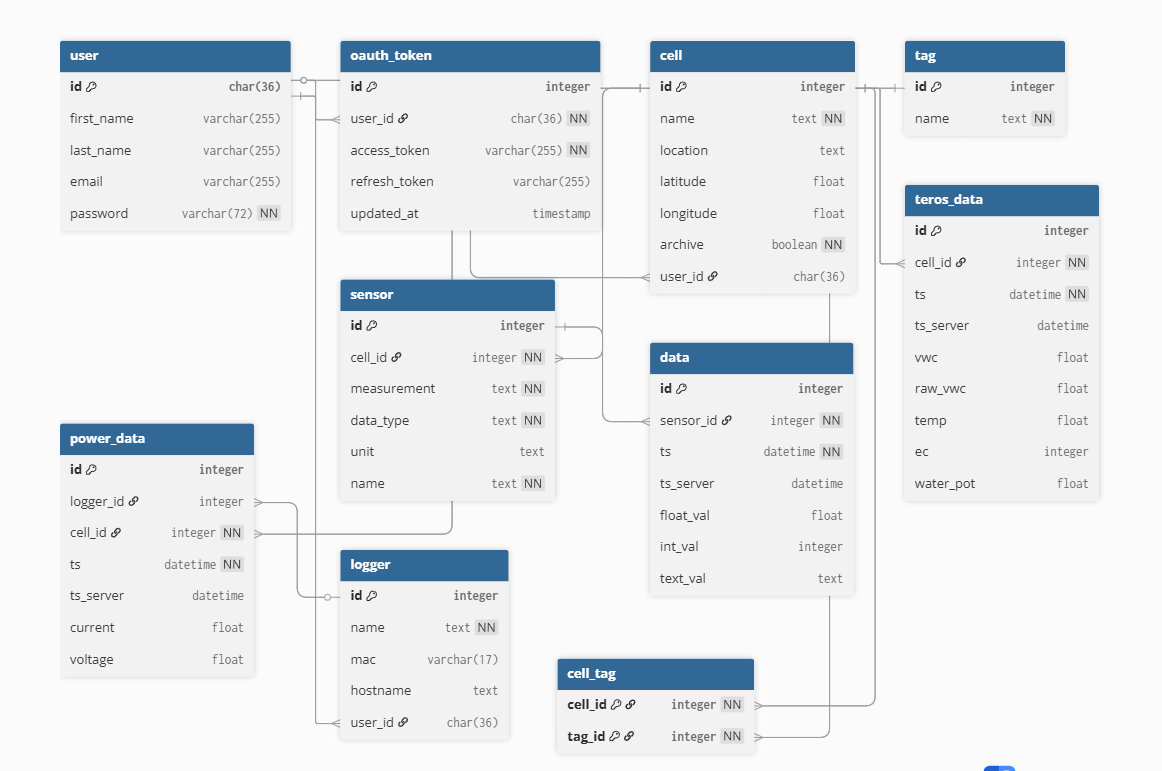
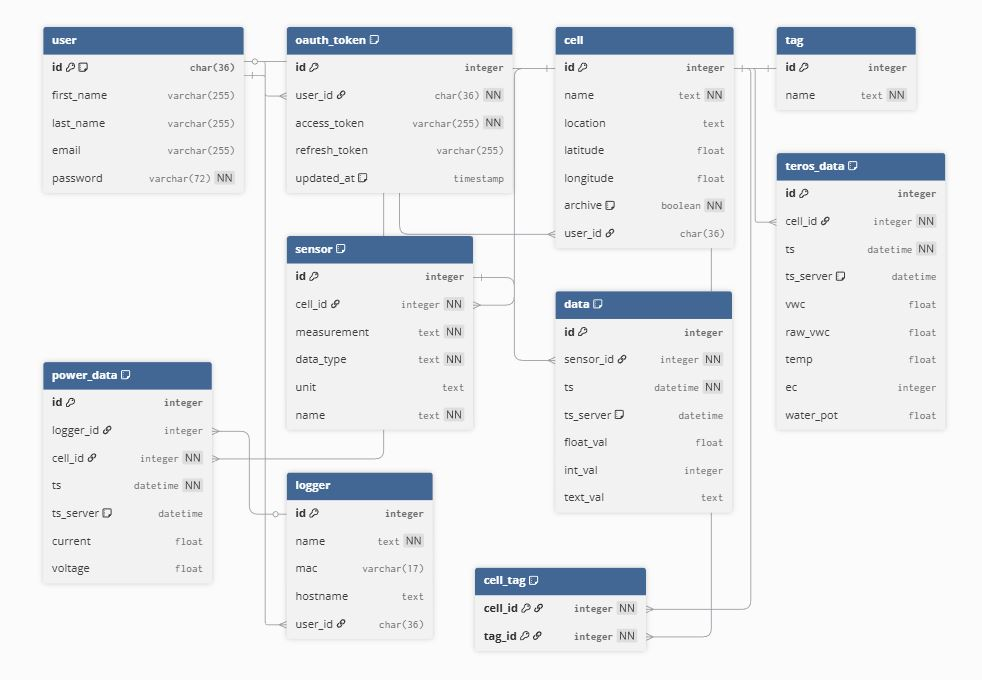
updated readme

diff --git a/frontend/src/pages/docs/Docs.jsx b/frontend/src/pages/docs/Docs.jsx
@@ -1,30 +1,7 @@
 import { React } from 'react';
-import PropTypes from 'prop-types';
-import { Box, Button, Container, Divider, Grid, Stack, Typography } from '@mui/material';
+import { Box, Container, Typography } from '@mui/material';
 import TopNav from '../../components/TopNav.jsx';
 import LandingFooter from '../../components/LandingFooter.jsx';
-
-function AnchorLink({ href, children }) {
-  return (
-    <Button
-      component='a'
-      href={href}
-      sx={{
-        textTransform: 'none',
-        color: '#111827',
-        px: 1.25,
-        '&:hover': { backgroundColor: 'rgba(0,0,0,0.04)' },
-      }}
-    >
-      {children}
-    </Button>
-  );
-}
-
-AnchorLink.propTypes = {
-  href: PropTypes.string.isRequired,
-  children: PropTypes.node.isRequired,
-};
 
 function Docs() {
   return (
@@ -34,116 +11,10 @@ function Docs() {
       <Container maxWidth='lg' sx={{ py: { xs: 4, md: 6 } }}>
         <Box sx={{ textAlign: 'center', mb: { xs: 3, md: 4 } }}>
           <Typography variant='h3' component='h1' sx={{ fontWeight: 900, color: '#0F172A' }}>
-            DirtViz Documentation
+            Database Schema
           </Typography>
-          
-        </Box>
-
-        {/* Page quick links */}
-        <Box sx={{
-          display: 'flex',
-          flexWrap: 'wrap',
-          justifyContent: 'center',
-          alignItems: 'center',
-          gap: 0,
-          border: '1px solid #E5E7EB',
-          borderRadius: '999px',
-          p: 0.5,
-          mb: { xs: 4, md: 6 },
-        }}>
-          <AnchorLink href='#overview'>Overview</AnchorLink>
-          <Divider orientation='vertical' flexItem sx={{ mx: 0.5, borderColor: '#E5E7EB' }} />
-          <AnchorLink href='#frontend'>Frontend</AnchorLink>
-          <Divider orientation='vertical' flexItem sx={{ mx: 0.5, borderColor: '#E5E7EB' }} />
-          <AnchorLink href='#backend'>Backend</AnchorLink>
-          <Divider orientation='vertical' flexItem sx={{ mx: 0.5, borderColor: '#E5E7EB' }} />
-          <AnchorLink href='#schema'>Schema</AnchorLink>
-          <Divider orientation='vertical' flexItem sx={{ mx: 0.5, borderColor: '#E5E7EB' }} />
-          <AnchorLink href='#setup'>Setup</AnchorLink>
-         
-        </Box>
-
-        {/* Overview */}
-        <Box id='overview' sx={{ mb: { xs: 4, md: 6 } }}>
-          <Typography variant='h5' sx={{ fontWeight: 800, mb: 1 }}>Overview</Typography>
-          <Typography variant='body1' sx={{ color: '#374151' }}>
-            DirtViz is an open-source platform for visualizing environmental sensor networks. It combines a modern
-            React frontend with a Python backend and a relational database to stream, store, and visualize sensor data in
-            real time.
-          </Typography>
-        </Box>
-
-        {/* Frontend */}
-        <Box id='frontend' sx={{ mb: { xs: 4, md: 6 } }}>
-          <Typography variant='h5' sx={{ fontWeight: 800, mb: 1 }}>Frontend</Typography>
-          <Typography variant='body1' sx={{ color: '#374151', mb: 3 }}>
-            The frontend is built with React and Vite, using Material UI for components, Chart.js for charts, and
-            TanStack Query for data fetching/caching.
-          </Typography>
-          <Grid container spacing={3}>
-            <Grid item xs={12} md={6}>
-              <Typography variant='subtitle2' sx={{ fontWeight: 800, mb: 1 }}>Structure</Typography>
-              <Box component='pre' sx={{ m: 0, p: 2, background: '#F9FAFB', border: '1px solid #E5E7EB', borderRadius: 1, overflow: 'auto' }}>
-{`frontend/
-  src/
-    components/        # Navbar, footer, shared UI
-    pages/             # Home, Dashboard, Map, Profile, Docs
-    charts/            # Chart.js wrappers & plugins
-    services/          # API clients & auth
-    auth/              # Auth context and hooks
-`}
-              </Box>
-            </Grid>
-            <Grid item xs={12} md={6}>
-              <Typography variant='subtitle2' sx={{ fontWeight: 800, mb: 1 }}>Key Components</Typography>
-              <ul style={{ margin: 0, paddingLeft: 20, color: '#374151' }}>
-                <li><b>TopNav / Nav</b>: responsive navigation with auth.</li>
-                <li><b>HeroStreamingPower</b>: animated, live-like power chart.</li>
-                <li><b>Dashboard</b>: interactive charts and filters.</li>
-              </ul>
-            </Grid>
-          </Grid>
-
-          <Box sx={{ mt: 2 }}>
-            <Typography variant='subtitle2' sx={{ fontWeight: 800, mb: 1 }}>Dashboard</Typography>
-            <ul style={{ margin: 0, paddingLeft: 20, color: '#374151' }}>
-              <li>Route: <code>/dashboard</code>; responsive layout built with Material UI Grid.</li>
-              <li>Charts: components under <code>frontend/src/charts</code> (e.g., <code>VwcChart</code>, <code>TempChart</code>, <code>PwrChart</code>), powered by Chart.js.</li>
-              <li>Data fetching: TanStack Query hooks using axios clients in <code>frontend/src/services</code>.</li>
-              <li>Filters: tag/cell filters and date-range utilities in <code>hooks/useSmartDateRange.js</code>.</li>
-              <li>UX: zoom/pan plugins, downsampling, and synchronized axes for multi-chart comparisons.</li>
-              <li>Auth-aware: protected data routes require a valid access token; handled by <code>useAxiosPrivate</code>.</li>
-            </ul>
-          </Box>
-        </Box>
-
-        {/* Backend */}
-        <Box id='backend' sx={{ mb: { xs: 4, md: 6 } }}>
-          <Typography variant='h5' sx={{ fontWeight: 800, mb: 1 }}>Backend</Typography>
-          <Typography variant='body1' sx={{ color: '#374151', mb: 2 }}>
-            The backend (Python) exposes RESTful endpoints, manages authentication, and persists sensor readings. It
-            uses SQLAlchemy ORM with Alembic migrations. Resources under <code>backend/api/resources</code> map to
-            models in <code>backend/api/models</code>.
-          </Typography>
-          <Grid container spacing={2}>
-            <Grid item xs={12} md={6}>
-              <Typography variant='subtitle2' sx={{ fontWeight: 800, mb: 1 }}>Key Endpoints</Typography>
-              <Box component='pre' sx={{ m: 0, p: 2, background: '#F9FAFB', border: '1px solid #E5E7EB', borderRadius: 1, overflow: 'auto' }}>
-{`Coming Soon`}
-              </Box>
-            </Grid>
-            <Grid item xs={12} md={6}>
-              <Typography variant='subtitle2' sx={{ fontWeight: 800, mb: 1 }}>Environment Variables</Typography>
-              <Box component='pre' sx={{ m: 0, p: 2, background: '#F9FAFB', border: '1px solid #E5E7EB', borderRadius: 1, overflow: 'auto' }}>
-{`DATABASE_URL=postgresql://user:pass@localhost:5432/dirtviz
-SECRET_KEY=change-me
-TTN_API_KEY=optional-ttn-token
-FLASK_ENV=production`}
-              </Box>
-            </Grid>
-          </Grid>
-          <Typography variant='caption' sx={{ color: '#6B7280', display: 'block', mt: 1 }}>
-            See <code>backend/api/resources</code> and tests under <code>backend/tests</code> for specifics.
+          <Typography variant='body1' sx={{ color: '#6B7280', mt: 1 }}>
+            For complete documentation, please see the main README in the repository.
           </Typography>
         </Box>
 
@@ -160,79 +31,7 @@ FLASK_ENV=production`}
               style={{ width: '100%', height: 'auto', display: 'block', borderRadius: 6 }}
               onError={(e) => { e.currentTarget.style.display = 'none'; }}
             />
-            <Box sx={{ display: 'none' }} />
           </Box>
-        </Box>
-
-        {/* How it works */}
-        <Box id='how-it-works' sx={{ mb: { xs: 4, md: 6 } }}>
-          <Typography variant='h5' sx={{ fontWeight: 800, mb: 1 }}>How It Works</Typography>
-          <Typography variant='body1' sx={{ color: '#374151' }}>
-            Data flows from field sensors through gateways to the backend API where it is validated and stored. The
-            frontend queries the API to render dashboards and live visualizations.
-          </Typography>
-          <ol style={{ margin: '12px 0 0 20px', color: '#374151' }}>
-            <li>Sensor devices publish readings (e.g., via LoRaWAN / TTN integration).</li>
-            <li>Backend receives payloads, normalizes units, and writes to the database.</li>
-            <li>Frontend fetches aggregated data and streams recent points to charts.</li>
-          </ol>
-        </Box>
-
-        {/* Setup */}
-        <Box id='setup' sx={{ mb: { xs: 4, md: 6 } }}>
-          <Typography variant='h5' sx={{ fontWeight: 800, mb: 1 }}>Setup Instructions</Typography>
-          <Grid container spacing={2}>
-            <Grid item xs={12} md={6}>
-              <Typography variant='subtitle2' sx={{ fontWeight: 800, mb: 1 }}>Frontend</Typography>
-              <Box component='pre' sx={{ m: 0, p: 2, background: '#F9FAFB', border: '1px solid #E5E7EB', borderRadius: 1, overflow: 'auto' }}>
-{`cd frontend
-npm install
-npm run dev`}
-              </Box>
-            </Grid>
-            <Grid item xs={12} md={6}>
-              <Typography variant='subtitle2' sx={{ fontWeight: 800, mb: 1 }}>Backend</Typography>
-              <Box component='pre' sx={{ m: 0, p: 2, background: '#F9FAFB', border: '1px solid #E5E7EB', borderRadius: 1, overflow: 'auto' }}>
-{`python -m venv .venv
-source .venv/bin/activate  # (Windows: .venv\\Scripts\\activate)
-pip install -r backend/requirements.txt
-alembic upgrade head       # run migrations
-python backend/wsgi.py`}
-              </Box>
-            </Grid>
-          </Grid>
-          <Grid container spacing={2} sx={{ mt: 2 }}>
-            <Grid item xs={12} md={6}>
-              <Typography variant='subtitle2' sx={{ fontWeight: 800, mb: 1 }}>Testing</Typography>
-              <Box component='pre' sx={{ m: 0, p: 2, background: '#F9FAFB', border: '1px solid #E5E7EB', borderRadius: 1, overflow: 'auto' }}>
-{`cd backend
-pytest -q`}
-              </Box>
-            </Grid>
-            <Grid item xs={12} md={6}>
-              <Typography variant='subtitle2' sx={{ fontWeight: 800, mb: 1 }}>Docker</Typography>
-              <Box component='pre' sx={{ m: 0, p: 2, background: '#F9FAFB', border: '1px solid #E5E7EB', borderRadius: 1, overflow: 'auto' }}>
-{`docker-compose up --build
-# Frontend at http://localhost:3000
-# Backend at  http://localhost:8000`}
-              </Box>
-            </Grid>
-          </Grid>
-          <Typography variant='caption' sx={{ color: '#6B7280', display: 'block', mt: 1 }}>
-            For Docker users, see docker-compose.yml at the repo root.
-          </Typography>
-        </Box>
-
-        {/* Learn more */}
-        <Box id='learn' sx={{ textAlign: 'center', mb: { xs: 2, md: 4 } }}>
-          <Stack direction='row' spacing={2} sx={{ justifyContent: 'center' }}>
-            <Button component='a' href='https://github.com/jlab-sensing/DirtViz' target='_blank' rel='noreferrer' variant='contained' sx={{ backgroundColor: '#111827', color: '#FFFFFF', textTransform: 'none', fontWeight: 800 }}>
-              View on GitHub
-            </Button>
-            <Button component='a' href='https://sensors.soe.ucsc.edu/assets/pdf/madden2022smfcCurrentSense.pdf' target='_blank' rel='noreferrer' variant='text' sx={{ color: '#111827', textTransform: 'none', fontWeight: 800 }}>
-              Read Research Paper
-            </Button>
-          </Stack>
         </Box>
       </Container>
 

diff --git a/README.md b/README.md
@@ -26,6 +26,42 @@ docker compose up --build -d
 
 At this point the backend is accessible at [http://localhost:3000/](http://localhost:3000/), but will likely show a blank page in your web browser and throw an error. This is due to the database being empty, therefore there is no data to display.
 
+#### Alternative Setup Methods
+
+If you prefer to run the frontend and backend separately without Docker:
+
+**Frontend Setup:**
+```bash
+cd frontend
+npm install
+npm run dev
+```
+
+**Backend Setup:**
+```bash
+python -m venv .venv
+source .venv/bin/activate  # (Windows: .venv\Scripts\activate)
+pip install -r backend/requirements.txt
+python backend/wsgi.py
+```
+
+The frontend will be available at `http://localhost:3000` and the backend at `http://localhost:8000`.
+
+**Testing:**
+```bash
+cd backend
+pytest -q
+```
+
+**Docker (Alternative):**
+```bash
+docker-compose up --build
+# Frontend at http://localhost:3000
+# Backend at  http://localhost:8000
+```
+
+For Docker users, see `docker-compose.yml` at the repo root for more configuration options.
+
 ## Windows Development Note
 
 When developing on Windows, be aware that Git may automatically convert line endings from LF (Unix-style) to CRLF (Windows-style). This can cause issues with shell scripts run inside Docker containers, such as `entrypoint.sh` and `migrate.sh`, resulting in errors like "entrypoint.sh not found" or "bad interpreter".
@@ -125,9 +161,56 @@ Now some graphs should appear on the website and look like the following.
 
 ## Architecture
 
-### System
+### System Overview
+
+DirtViz is an open-source platform for visualizing environmental sensor networks. It combines a React frontend with a Python backend and a relational database to stream, store, and visualize sensor data in real time.
 
 ENTS backend's client is built with React and is located under the `frontend` folder. ENTS backend's API is built with Flask and located under the `backend` folder. Check out the [frontend readme](frontend/README.md) and the [backend readme](backend/README.md) for more information.
+
+### Frontend
+
+The frontend is built with React and Vite, using Material UI for components, Chart.js for charts, and TanStack Query for data fetching/caching.
+
+#### Frontend Structure
+
+```
+frontend/
+  src/
+    components/        # Navbar, footer, shared UI
+    pages/             # Home, Dashboard, Map, Profile, Docs
+    charts/            # Chart.js wrappers & plugins
+    services/          # API clients & auth
+    auth/              # Auth context and hooks
+```
+
+#### Dashboard Details
+
+- Route: `/dashboard`; responsive layout built with Material UI Grid
+- Charts: components under `frontend/src/charts` (e.g., `VwcChart`, `TempChart`, `PwrChart`), powered by Chart.js
+- Data fetching: TanStack Query hooks using axios clients in `frontend/src/services`
+- Filters: tag/cell filters and date-range utilities in `hooks/useSmartDateRange.js`
+- UX: zoom/pan plugins, downsampling, and synchronized axes for charts
+- Auth-aware: protected data routes require a valid access token; handled by `useAxiosPrivate`
+
+### Backend
+
+The backend (Python) exposes RESTful endpoints, manages authentication, and persists sensor readings. It uses SQLAlchemy ORM with Alembic migrations. Resources under `backend/api/resources` map to models in `backend/api/models`.
+
+For detailed API endpoint documentation, see `backend/api/resources` and tests under `backend/tests`.
+
+### Database Schema
+
+The ER diagram shows tables for users, sensors, loggers, cells, and time-series measurements.
+
+![Database schema diagram](frontend/public/assets/db.png)
+
+### How It Works
+
+Data flows from field sensors through gateways to the backend API where it is validated and stored. The frontend queries the API to render dashboards and live visualizations.
+
+1. Sensor devices publish readings (e.g., via LoRaWAN / TTN integration)
+2. Backend receives payloads, normalizes units, and writes to the database
+3. Frontend fetches aggregated data and streams recent points to charts
 
 ### Local Development and Production Environments
 
